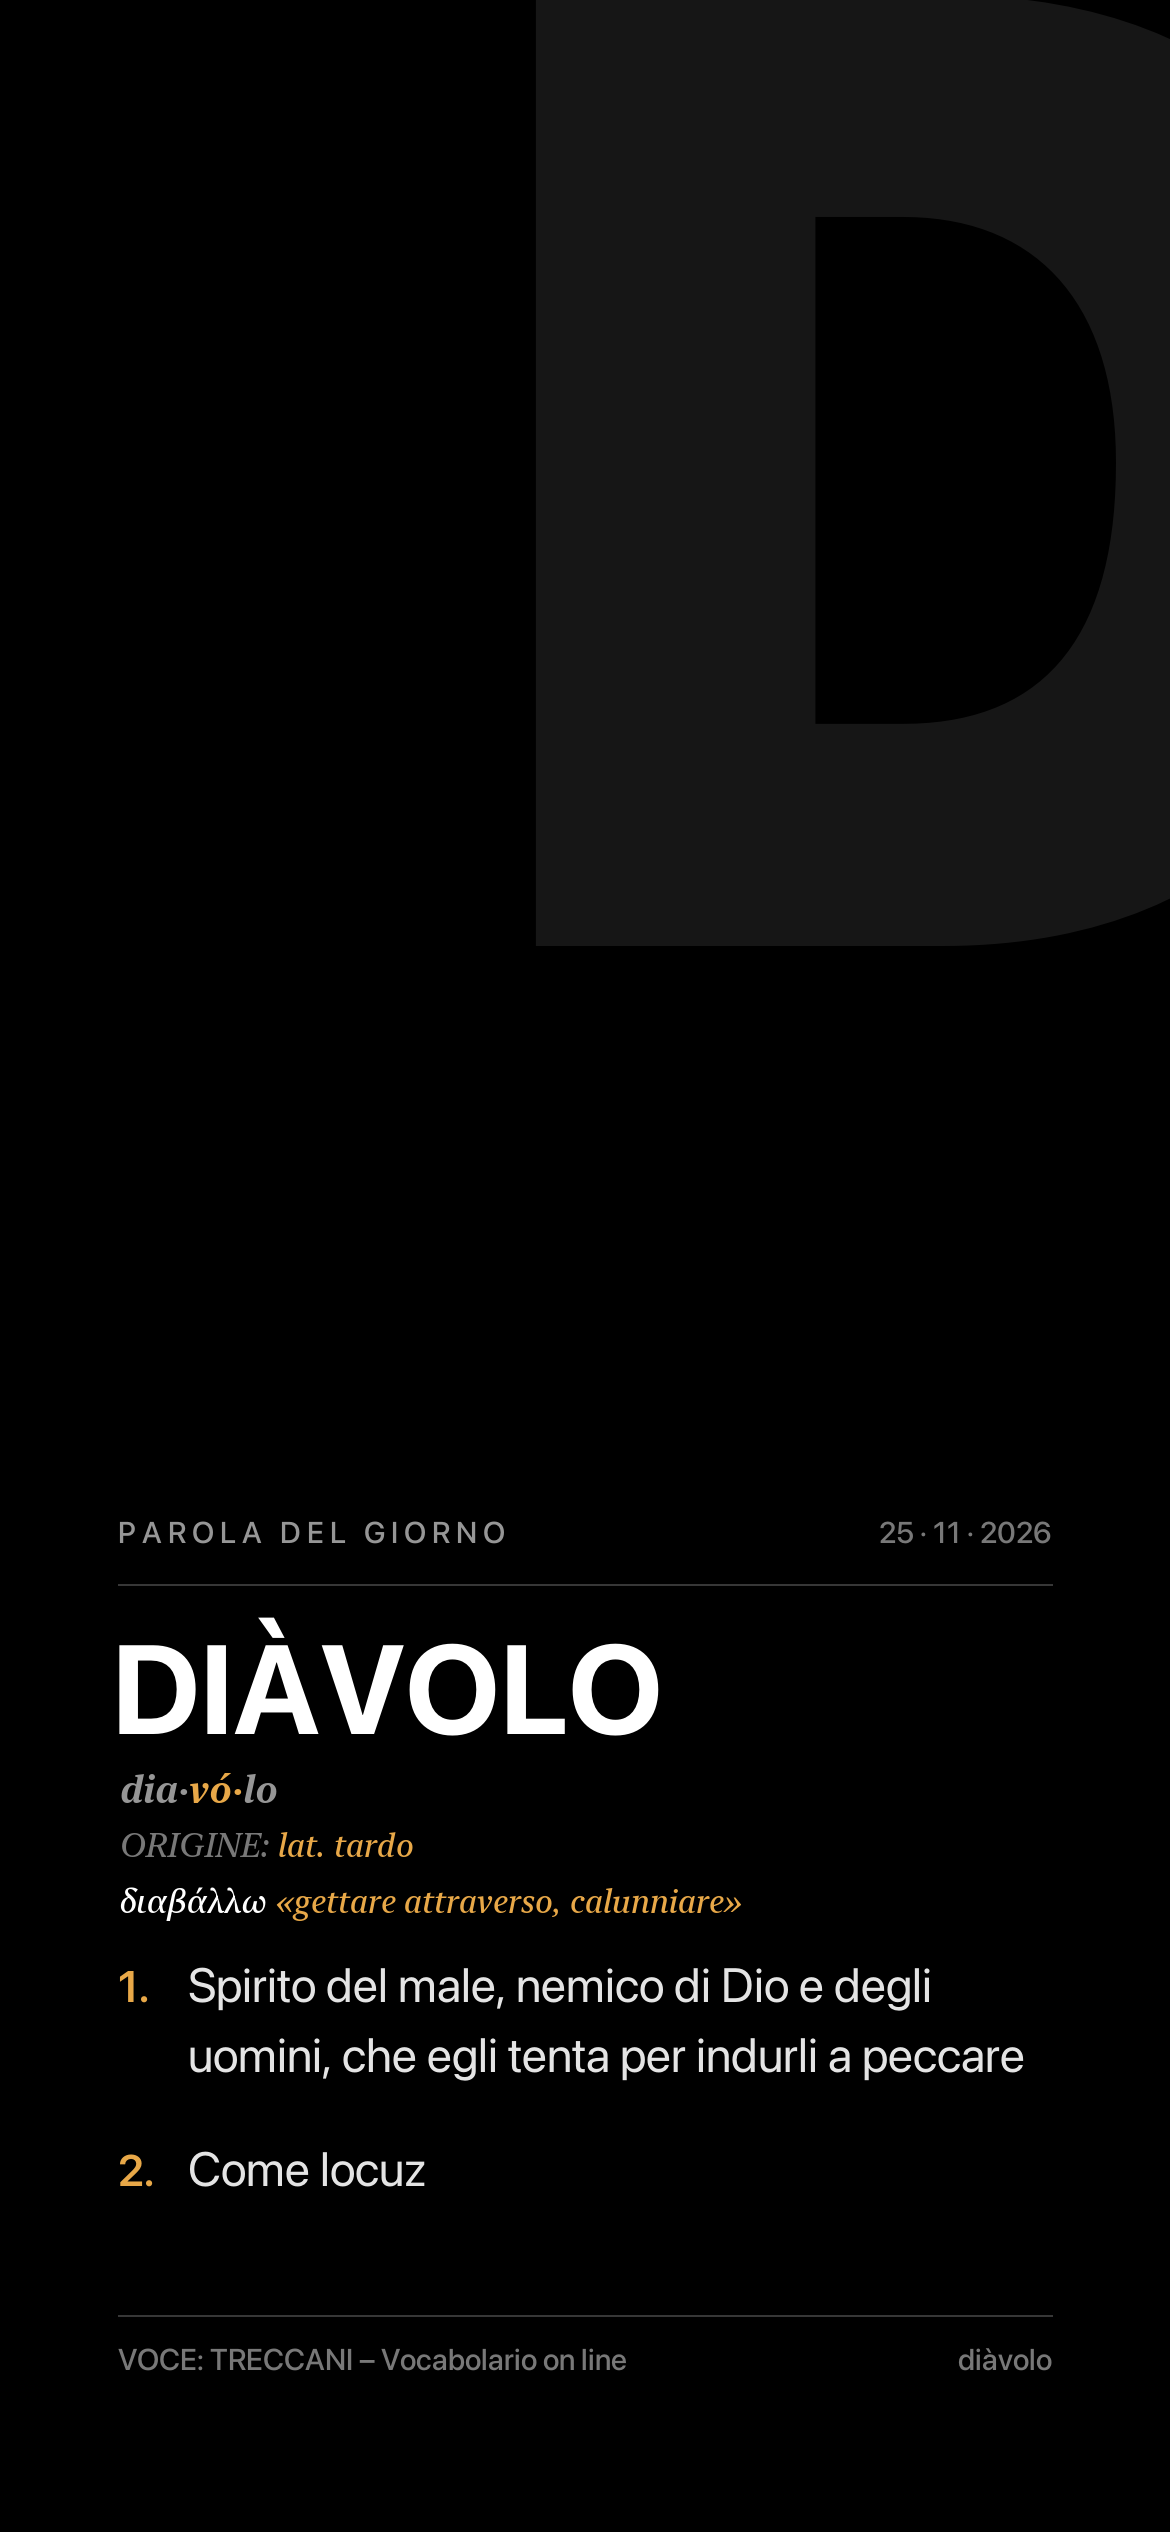
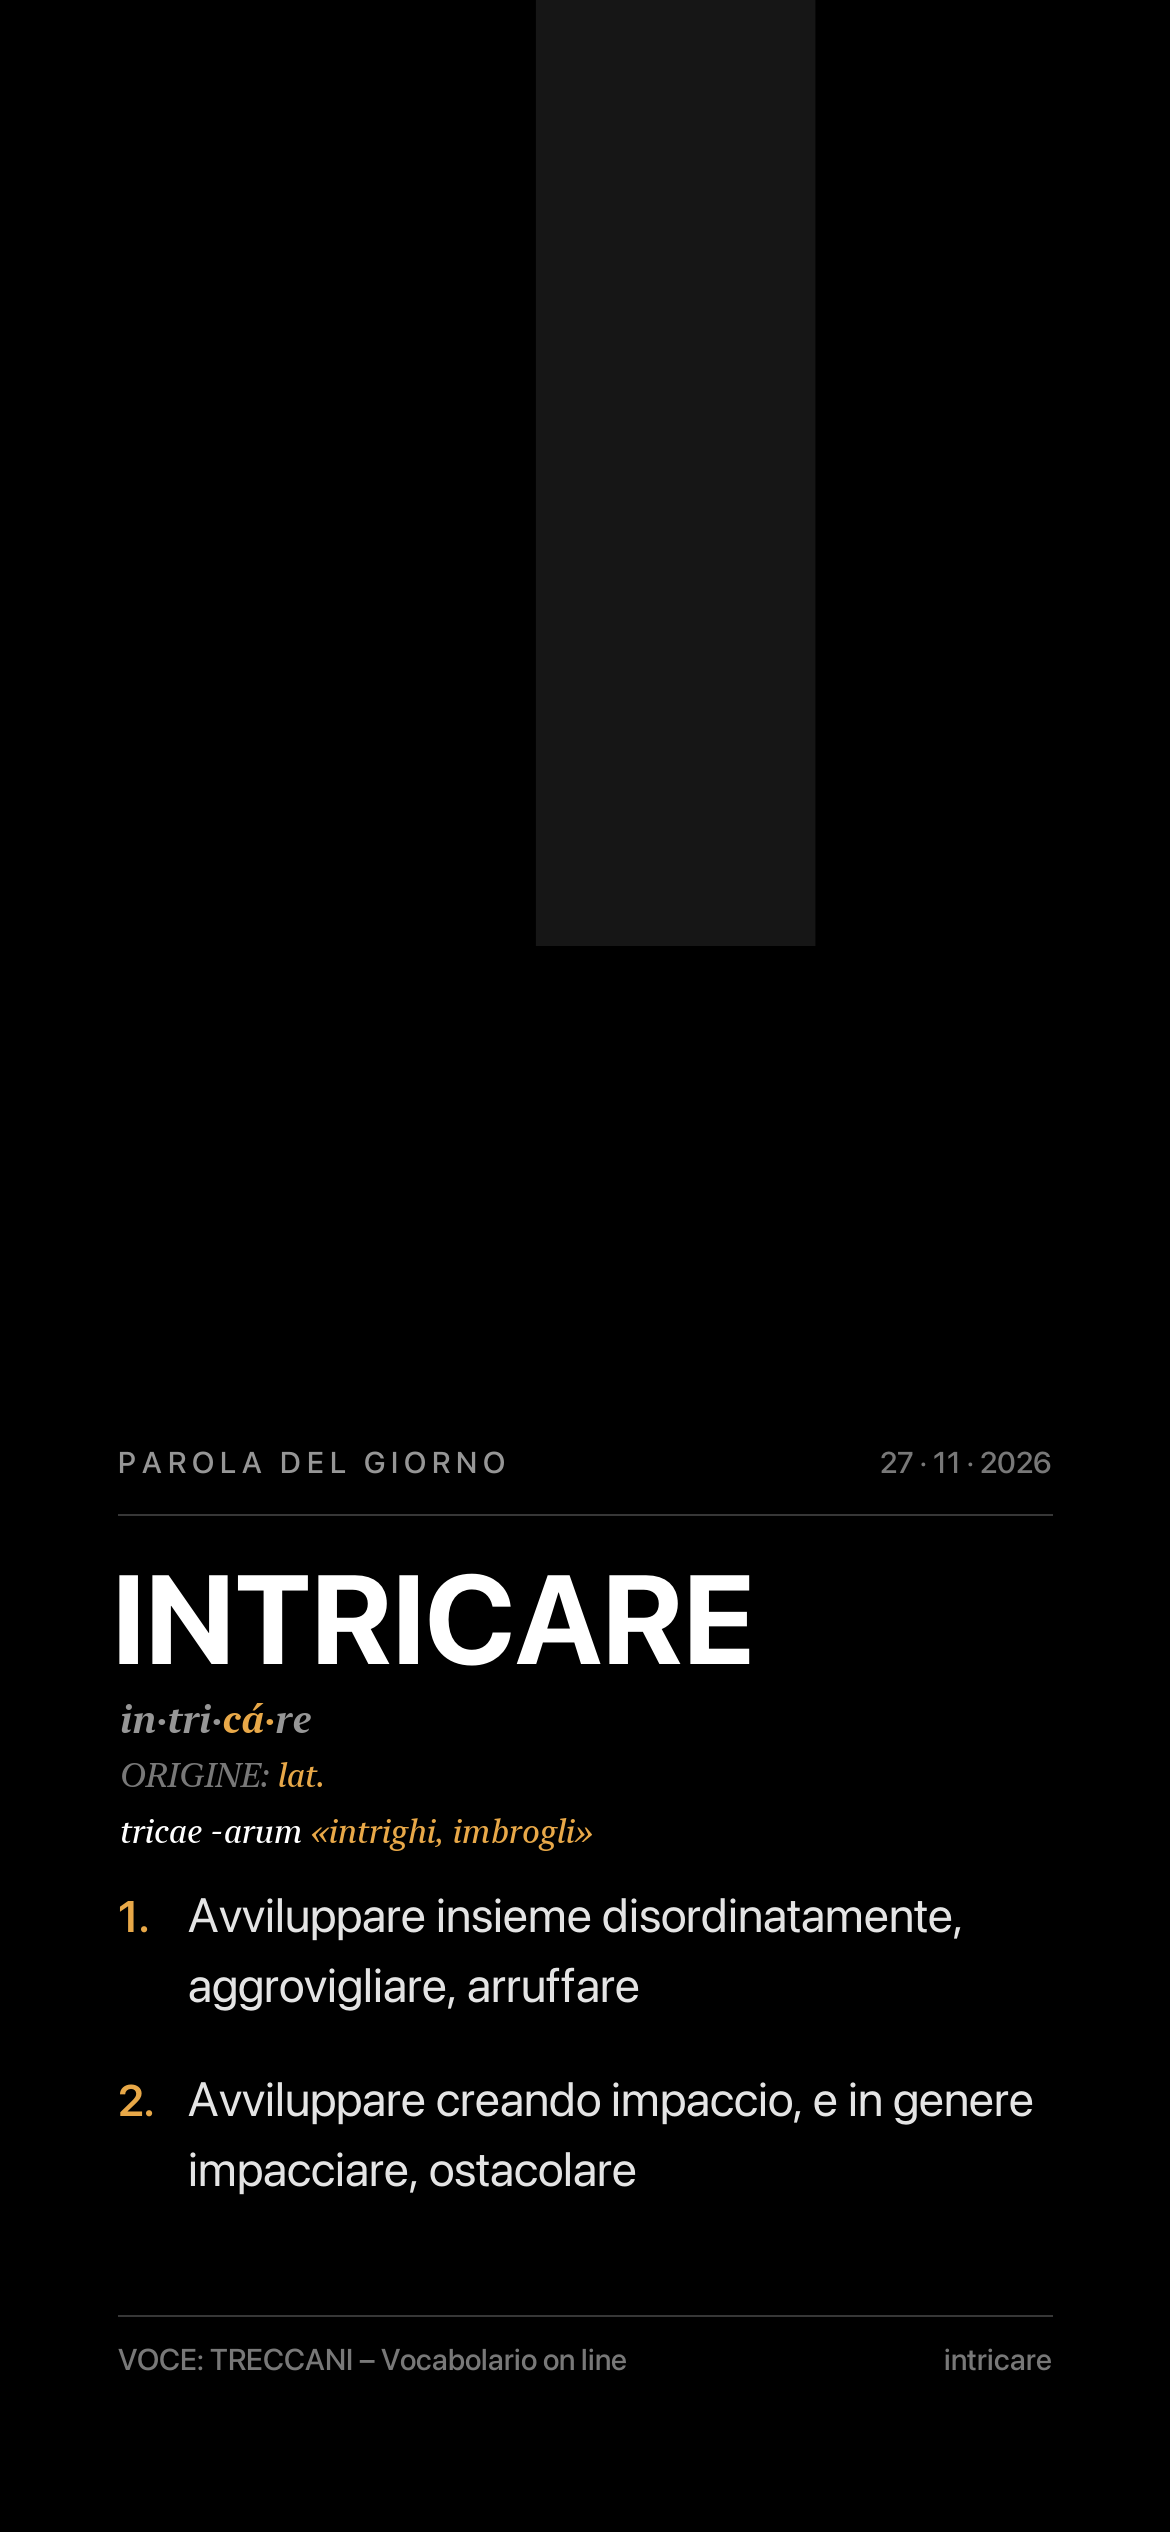
parola del giorno: intricare

diff --git a/site/index.html b/site/index.html
@@ -1,7 +1,7 @@
 <!doctype html>
 <html lang="it"><head><meta charset="utf-8">
 <meta name="viewport" content="width=device-width, initial-scale=1">
-<title>Parola del giorno – diàvolo</title>
+<title>Parola del giorno – intricare</title>
 <meta http-equiv="refresh" content="1800">
 <meta name="description" content="Sfondi di sblocco con la parola del giorno del Vocabolario Treccani, aggiornati ogni giorno.">
 <style>
@@ -13,10 +13,10 @@
  .src{margin-top:14px;font-size:13px}
 </style></head><body>
 <h1>PAROLA DEL GIORNO</h1>
-<img id="w" src="wallpaper.png" alt="Wallpaper parola del giorno diàvolo">
-<h1>DIÀVOLO</h1>
+<img id="w" src="wallpaper.png" alt="Wallpaper parola del giorno intricare">
+<h1>INTRICARE</h1>
 <p>Aggiornato ogni giorno con la parola del giorno del Vocabolario Treccani.<br>
-Ultimo aggiornamento: 25/11/2026</p>
-<p class="src"><a href="https://www.treccani.it/vocabolario/diavolo/">Voce Treccani →</a> &nbsp;·&nbsp; <a href="wallpaper.png">Scarica sfondo (1170×2532)</a></p>
+Ultimo aggiornamento: 27/11/2026</p>
+<p class="src"><a href="https://www.treccani.it/vocabolario/intricare/">Voce Treccani →</a> &nbsp;·&nbsp; <a href="wallpaper.png">Scarica sfondo (1170×2532)</a></p>
 <script>document.getElementById('w').src='wallpaper.png?v='+Date.now();</script>
 </body></html>
